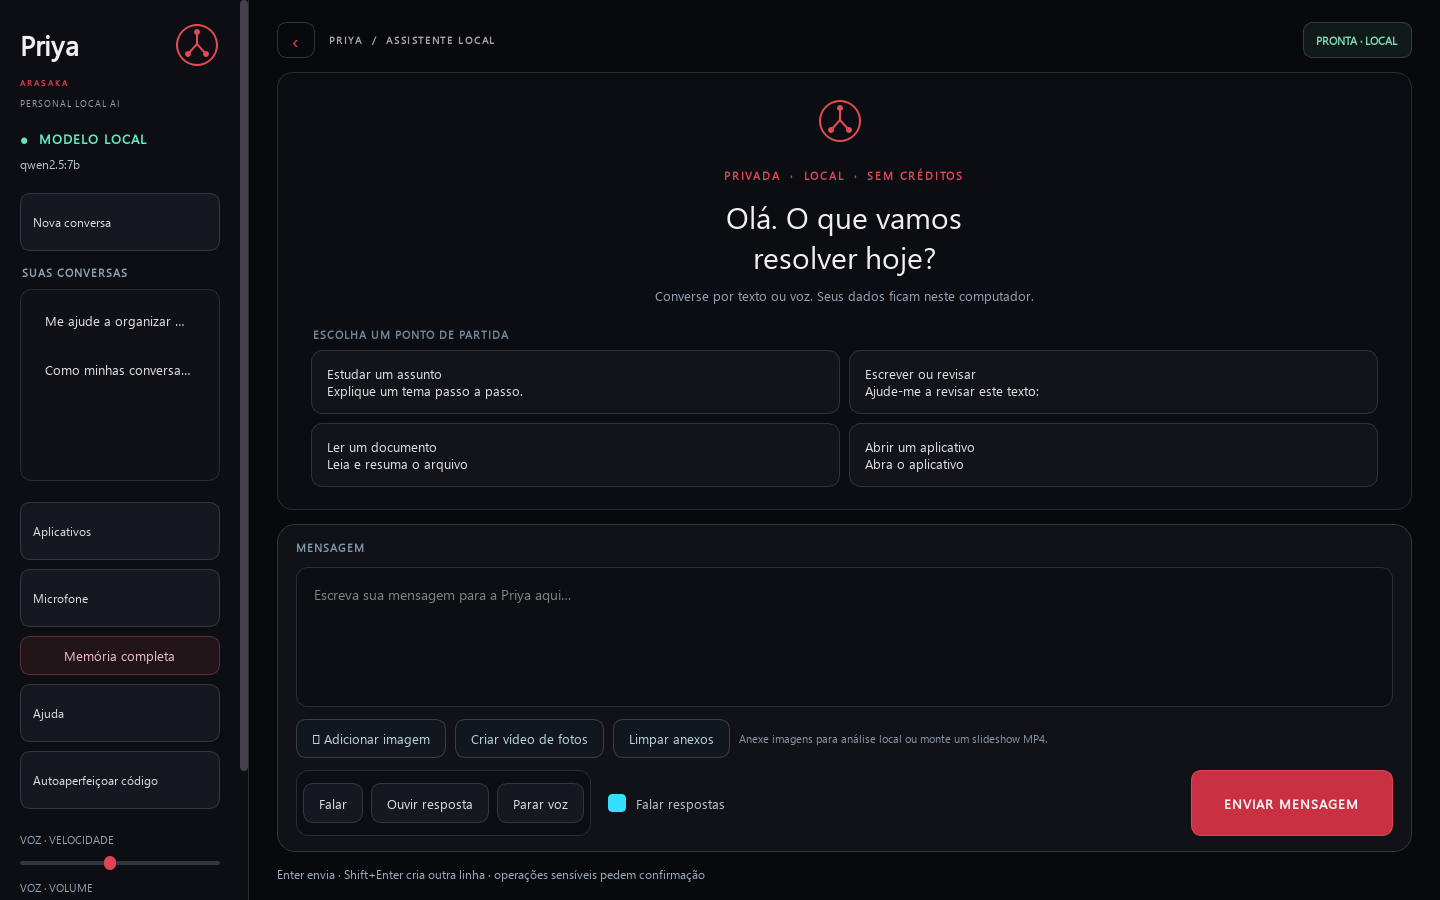
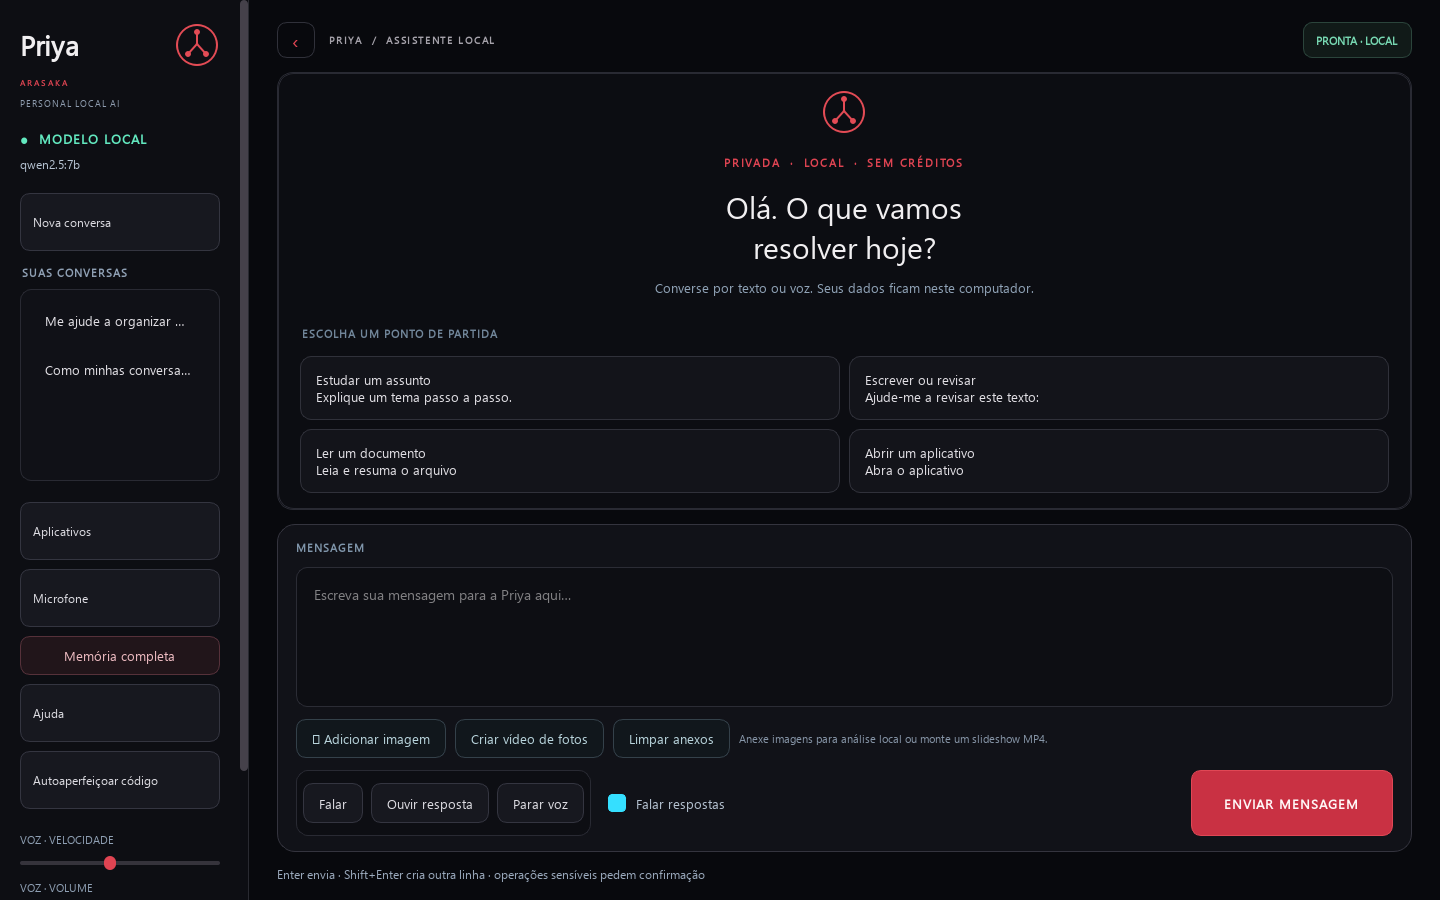
fix: prevent welcome screen text clipping at high DPI

Changed region(s): [[0.4375, 0.0933, 0.7188, 0.3422], [0.2188, 0.3422, 0.375, 0.5289], [0.5938, 0.4044, 0.7188, 0.5289]]

diff --git a/pria/interface/desktop.py b/pria/interface/desktop.py
@@ -152,6 +152,7 @@ class PriyaDesktop(QMainWindow):
             QFrame#VoiceControls { background: #0d0e13; border: 1px solid #292a33; border-radius: 12px; }
             QTextBrowser#Transcript { background: #0c0d12; color: #ecebf0; border: 1px solid #292a33; border-radius: 16px; padding: 22px; selection-background-color: #4b1821; }
             QWidget#Welcome { background: #0c0d12; border: 1px solid #292a33; border-radius: 16px; }
+            QScrollArea#WelcomeScroll { background: #0c0d12; border: 1px solid #292a33; border-radius: 16px; }
             QPlainTextEdit#MessageBox { background: #0d0e13; color: #f5f3f4; border: 1px solid #2b2c35; border-radius: 11px; padding: 13px; selection-background-color: #4b1821; font-size: 14px; }
             QPlainTextEdit#MessageBox:focus { border: 1px solid #cf3948; background: #101117; }
             QPushButton { background: #17181f; color: #dedde3; border: 1px solid #343540; border-radius: 10px; padding: 10px 15px; font-size: 10pt; }
@@ -382,34 +383,50 @@ class PriyaDesktop(QMainWindow):
         shell.addWidget(content, 1)
 
     def _make_welcome(self) -> QWidget:
+        scroll = QScrollArea()
+        scroll.setObjectName("WelcomeScroll")
+        scroll.setWidgetResizable(True)
+        scroll.setFrameShape(QFrame.NoFrame)
+        scroll.setHorizontalScrollBarPolicy(Qt.ScrollBarAlwaysOff)
+        scroll.setVerticalScrollBarPolicy(Qt.ScrollBarAsNeeded)
         page = QWidget()
         page.setObjectName("Welcome")
+        page.setSizePolicy(QSizePolicy.Expanding, QSizePolicy.Preferred)
+        self.welcome_page = page
         outer = QVBoxLayout(page)
-        outer.setContentsMargins(34, 26, 34, 24)
-        outer.addStretch(1)
+        outer.setContentsMargins(22, 16, 22, 16)
+        outer.setSpacing(8)
+        self.welcome_layout = outer
 
         mark = ArasakaMark()
-        mark.setFixedSize(54, 54)
+        mark.setFixedSize(46, 46)
+        self.welcome_mark = mark
         outer.addWidget(mark, alignment=Qt.AlignHCenter)
         eyebrow = QLabel("PRIVADA  ·  LOCAL  ·  SEM CRÉDITOS")
+        self.welcome_eyebrow = eyebrow
         eyebrow.setAlignment(Qt.AlignCenter)
         eyebrow.setStyleSheet("color:#e04452;font-size:8pt;font-weight:700;letter-spacing:1.8px;margin-top:10px")
         outer.addWidget(eyebrow)
         heading = QLabel("Olá. O que vamos\nresolver hoje?")
+        self.welcome_heading = heading
         heading.setAlignment(Qt.AlignCenter)
+        heading.setWordWrap(True)
         heading.setStyleSheet("color:#f1eff1;font-size:30px;font-weight:650;line-height:1.2;margin-top:8px")
         outer.addWidget(heading)
         subtitle = QLabel("Converse por texto ou voz. Seus dados ficam neste computador.")
+        self.welcome_subtitle = subtitle
         subtitle.setAlignment(Qt.AlignCenter)
         subtitle.setWordWrap(True)
         subtitle.setStyleSheet("color:#91a4b8;font-size:10pt;margin-top:4px;margin-bottom:17px")
         outer.addWidget(subtitle)
 
         section = QLabel("ESCOLHA UM PONTO DE PARTIDA")
+        self.welcome_section = section
         section.setStyleSheet("color:#71869a;font-size:8pt;font-weight:700;letter-spacing:1px;margin-bottom:2px")
         outer.addWidget(section)
         suggestions = QGridLayout()
         suggestions.setSpacing(9)
+        self.welcome_suggestions = suggestions
         cards = (
             ("Estudar um assunto", "Explique um tema passo a passo."),
             ("Escrever ou revisar", "Ajude-me a revisar este texto: "),
@@ -420,13 +437,45 @@ class PriyaDesktop(QMainWindow):
         for index, (label, prompt) in enumerate(cards):
             button = QPushButton(label + "\n" + prompt.rstrip())
             button.setObjectName("Suggestion")
-            button.setMinimumHeight(64)
+            button.setMinimumHeight(56)
             button.clicked.connect(lambda _checked=False, text=prompt: self._use_suggestion(text))
             suggestions.addWidget(button, index // 2, index % 2)
             self.suggestion_buttons.append(button)
         outer.addLayout(suggestions)
-        outer.addStretch(1)
-        return page
+        scroll.setWidget(page)
+        self.welcome_scroll = scroll
+        return scroll
+
+    def _update_welcome_density(self) -> None:
+        if not hasattr(self, "welcome_scroll"):
+            return
+        compact = self.screen_stack.height() < 360
+        self.welcome_scroll.setVerticalScrollBarPolicy(Qt.ScrollBarAlwaysOff if compact else Qt.ScrollBarAsNeeded)
+        self.welcome_mark.setVisible(not compact)
+        self.welcome_eyebrow.setVisible(not compact)
+        self.welcome_subtitle.setVisible(True)
+        self.welcome_subtitle.setText(
+            "Digite abaixo ou use o microfone para começar." if compact
+            else "Converse por texto ou voz. Seus dados ficam neste computador."
+        )
+        self.welcome_heading.setText("O que vamos resolver hoje?" if compact else "Olá. O que vamos\nresolver hoje?")
+        self.welcome_heading.setStyleSheet(
+            "color:#f1eff1;font-size:24px;font-weight:650;margin:0" if compact
+            else "color:#f1eff1;font-size:30px;font-weight:650;line-height:1.2;margin-top:8px"
+        )
+        self.welcome_layout.setContentsMargins(16, 12, 16, 12) if compact else self.welcome_layout.setContentsMargins(22, 16, 22, 16)
+        self.welcome_layout.setSpacing(6 if compact else 8)
+        self.welcome_section.setVisible(not compact)
+        for button in self.suggestion_buttons:
+            button.setVisible(not compact)
+            button.setMinimumHeight(44 if compact else 56)
+        self.welcome_page.updateGeometry()
+        self.welcome_scroll.widget().adjustSize()
+
+    def resizeEvent(self, event) -> None:
+        super().resizeEvent(event)
+        if hasattr(self, "welcome_scroll"):
+            QTimer.singleShot(0, self._update_welcome_density)
 
     def _use_suggestion(self, prompt: str) -> None:
         self.input.setPlainText(prompt)

diff --git a/tests/test_desktop.py b/tests/test_desktop.py
@@ -114,6 +114,23 @@ class DesktopInputTests(unittest.TestCase):
         window.close()
         window.deleteLater()
 
+    def test_welcome_compacts_to_fit_a_short_window_without_cutting_cards(self):
+        window = PriyaDesktop()
+        window.resize(1180, 560)
+        window.show()
+        self.app.processEvents()
+        window._update_welcome_density()
+        self.app.processEvents()
+        self.assertLess(window.screen_stack.height(), 360)
+        self.assertEqual(window.welcome_heading.text(), "O que vamos resolver hoje?")
+        self.assertFalse(window.welcome_mark.isVisible())
+        self.assertLessEqual(window.welcome_scroll.verticalScrollBar().maximum(), 2)
+        self.assertTrue(window.welcome_subtitle.isVisible())
+        self.assertEqual(window.welcome_subtitle.text(), "Digite abaixo ou use o microfone para começar.")
+        window.closing = True
+        window.close()
+        window.deleteLater()
+
     def test_memory_button_starts_a_separate_memory_conversation(self):
         with tempfile.TemporaryDirectory() as temp:
             memory = LocalMemory(Path(temp) / "memory.sqlite3")

diff --git a/scripts/capture_ui_previews.py b/scripts/capture_ui_previews.py
@@ -55,6 +55,18 @@ def main() -> int:
         if not window.grab().save(str(welcome_path)):
             raise RuntimeError(f"Não foi possível salvar {welcome_path}")
 
+        window.resize(1440, 560)
+        app.processEvents()
+        window._update_welcome_density()
+        app.processEvents()
+        if window.welcome_scroll.verticalScrollBar().maximum() > 2:
+            raise RuntimeError("A tela compacta ainda excede a altura disponível.")
+        compact_path = ASSETS / "priya-interface-compact.png"
+        if not window.grab().save(str(compact_path)):
+            raise RuntimeError(f"Não foi possível salvar {compact_path}")
+
+        window.resize(1440, 900)
+        app.processEvents()
         window.session_id = "demo-privacy"
         window.transcript_rows = [
             ("Você" if message["role"] == "user" else "Priya", message["content"])
@@ -81,6 +93,7 @@ def main() -> int:
         window.close()
         app.processEvents()
     print(welcome_path)
+    print(compact_path)
     print(chat_path)
     return 0
 

diff --git a/README.md b/README.md
@@ -64,9 +64,11 @@ As capturas usam somente mensagens sintéticas e não incluem conteúdo do banco
 
 ![Tela inicial da PRIYA](assets/priya-interface-welcome.png)
 
+![Tela compacta sem textos cortados](assets/priya-interface-compact.png)
+
 ![Conversa da PRIYA](assets/priya-interface-chat.png)
 
-Recrie as imagens de demonstração localmente com `python scripts\\capture_ui_previews.py`.
+A tela inicial se adapta à altura disponível; em janelas baixas, remove os cartões de sugestão e mantém o título legível. Recrie as imagens de demonstração localmente com `python scripts\\capture_ui_previews.py`.
 
 ## 🎞 Imagens e vídeos locais
 
